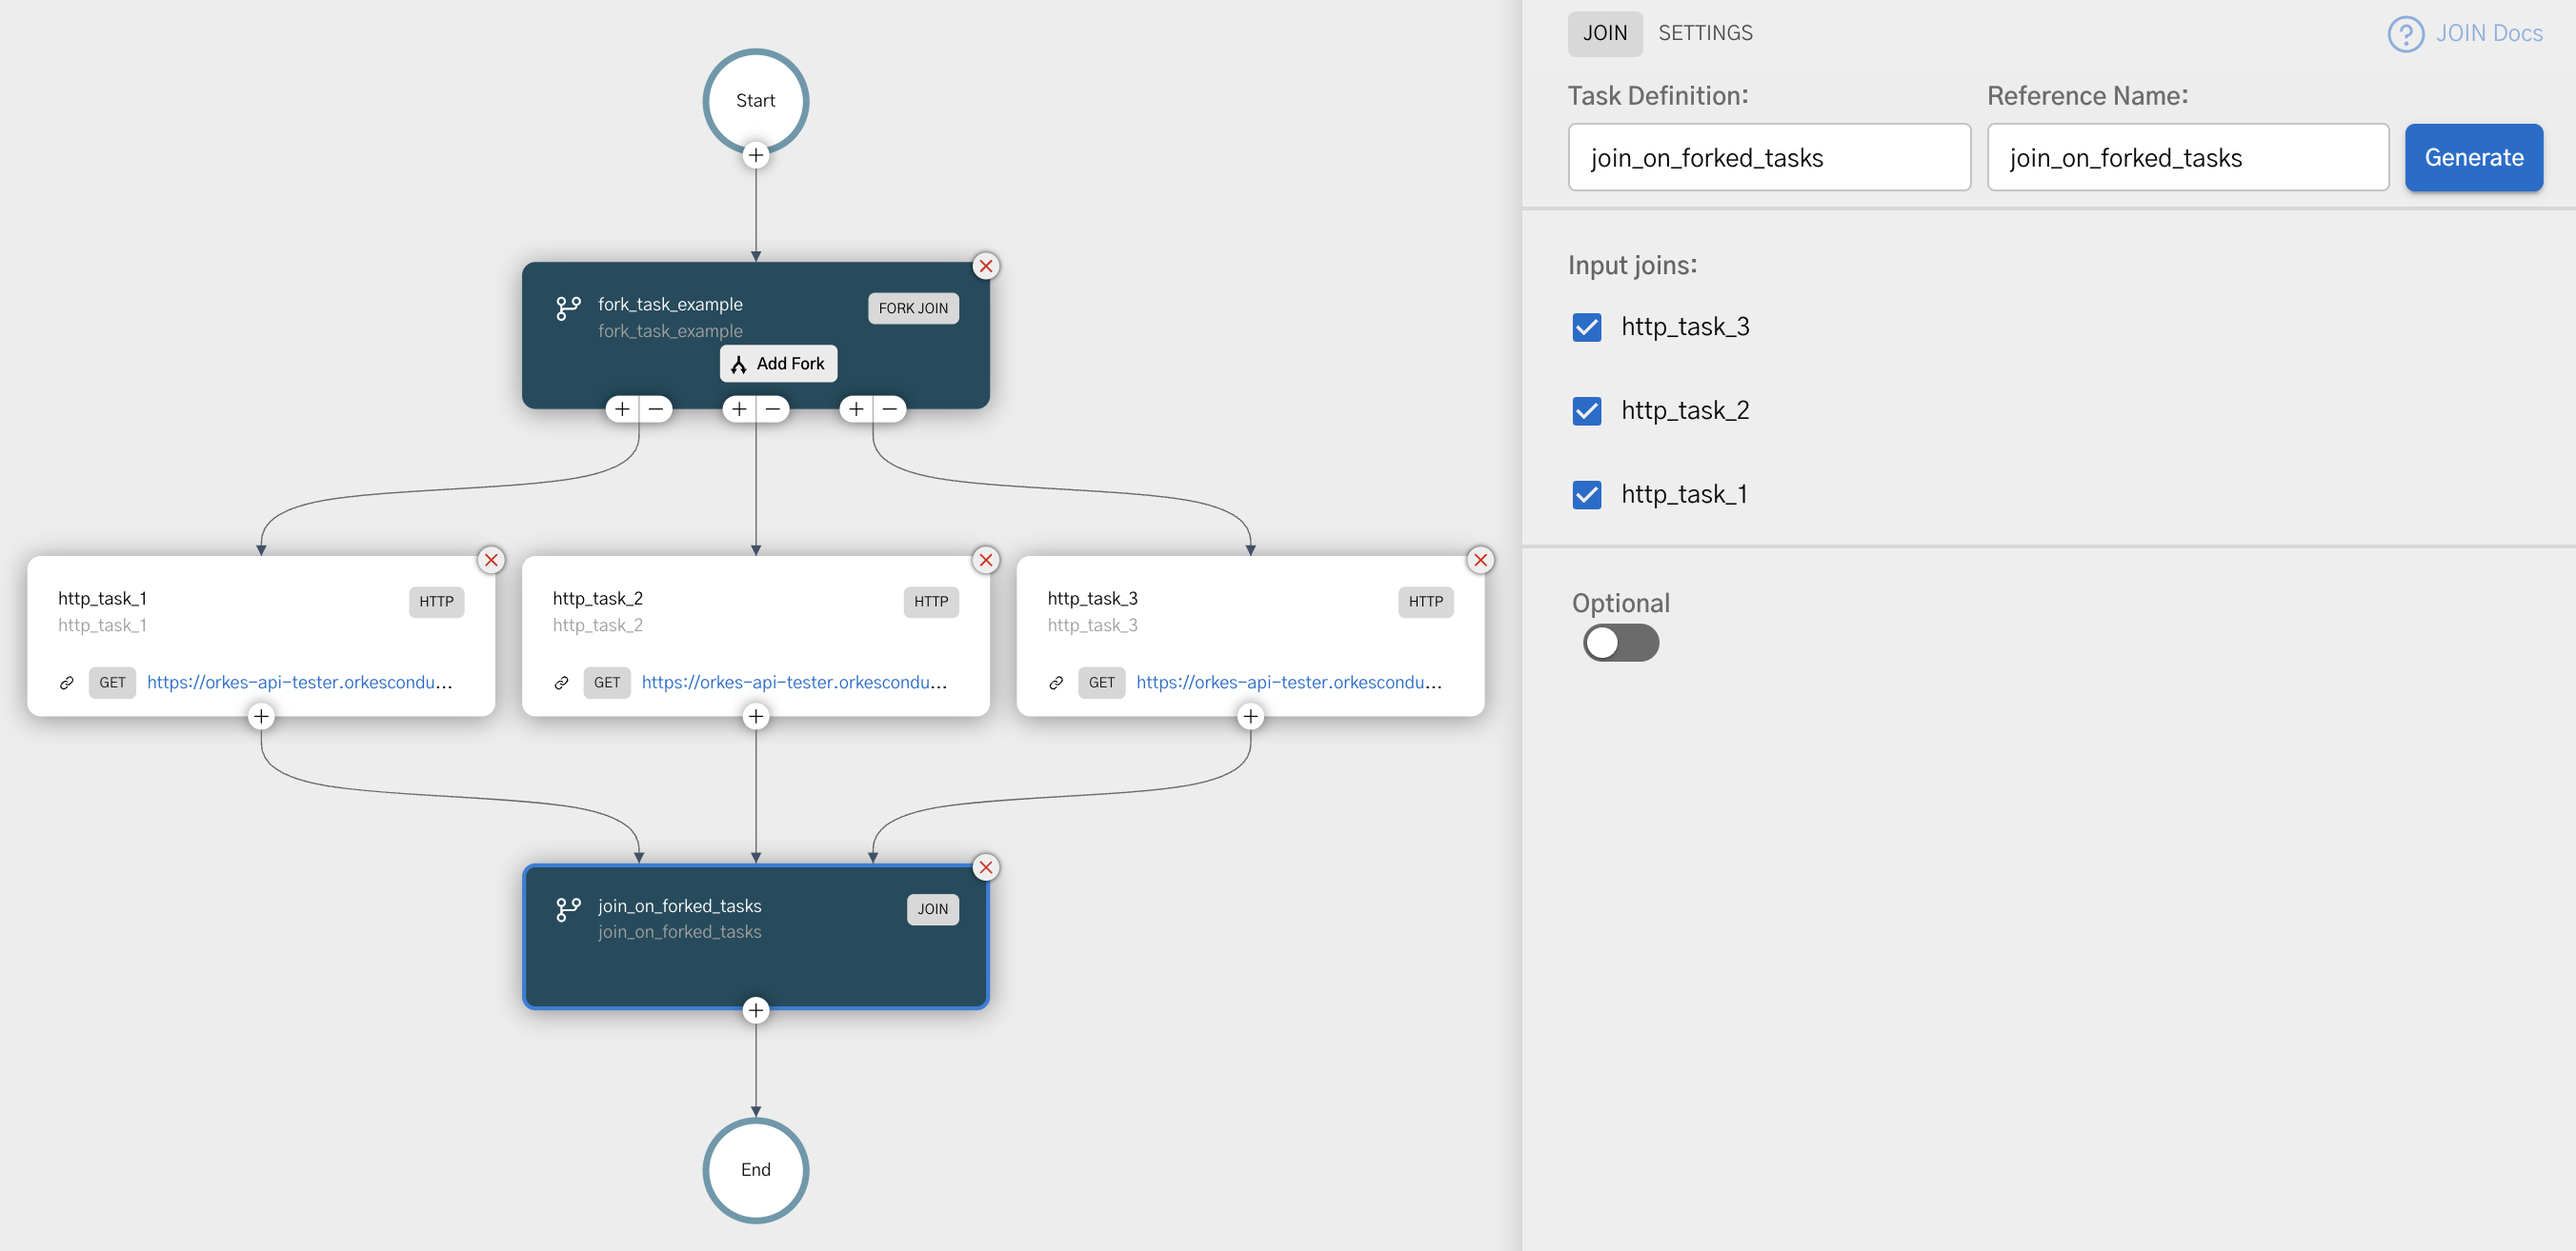
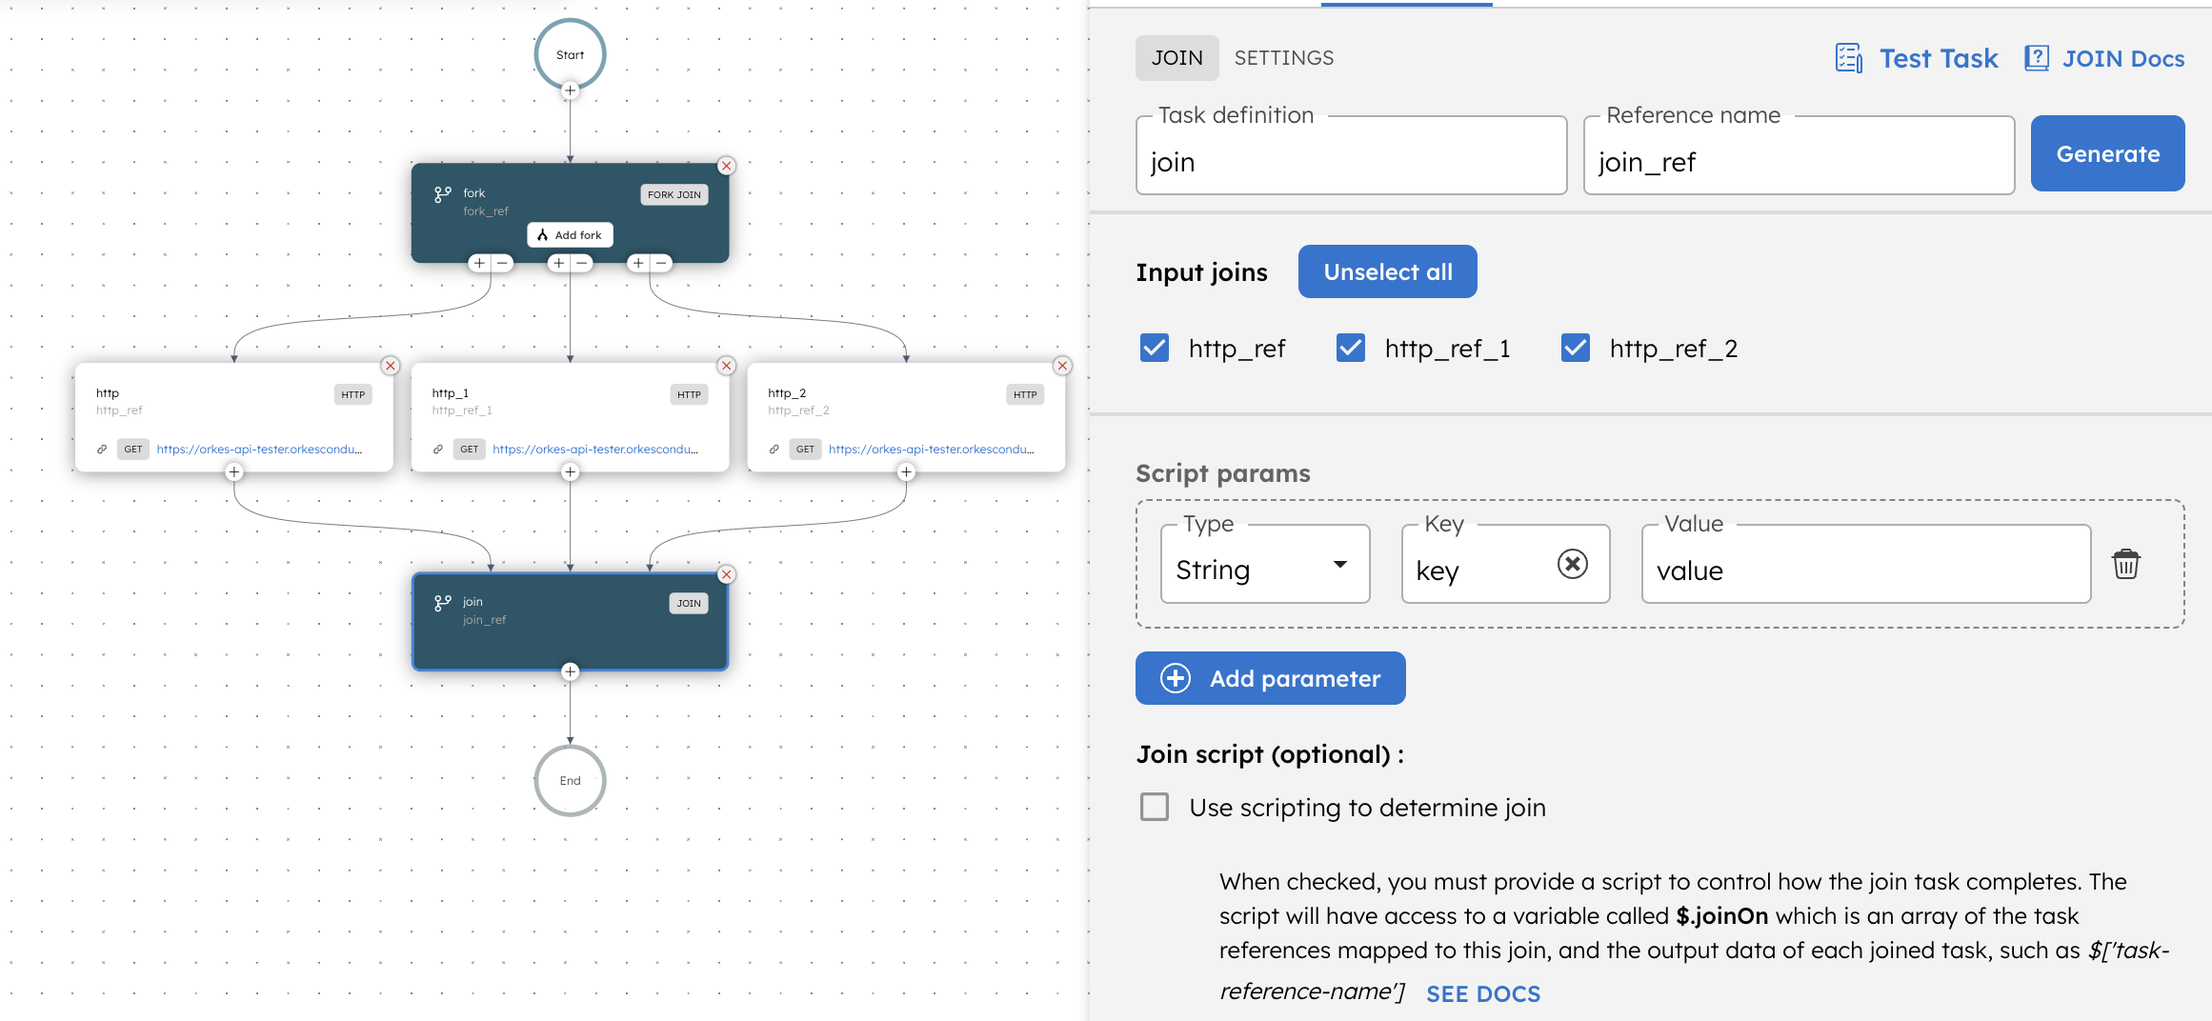
join task

diff --git a/docs/reference-docs/operators/join.md b/docs/reference-docs/operators/join.md
@@ -7,19 +7,22 @@ import TabItem from '@theme/TabItem';
 
 # Join 
 
-A JOIN task is used in conjunction with a **FORK_JOIN** or **FORK_JOIN_DYNAMIC** task to join all the tasks within the forks. 
+A Join task is used in conjunction with a [Fork Join](https://orkes.io/content/reference-docs/operators/fork-join) or [Dynamic Fork](https://orkes.io/content/reference-docs/operators/dynamic-fork) task to join all the tasks within the forks.
 
 ## Definitions
 
 ```json
-{
-  "name": "join_task",
-  "taskReferenceName": "join_task_ref",
-  "type": "JOIN",
-  "joinOn": [
-    // List of task reference names that this join should be waiting for
-  ]
-}
+   {
+     "name": "join",
+     "taskReferenceName": "join_ref",
+     "inputParameters": {
+       "key": "value"
+     },
+     "type": "JOIN",
+     "joinOn": [
+       // List of task reference names that this join should be waiting for
+     ]
+   }
 ```
 
 :::note
@@ -37,8 +40,16 @@ In the **FORK_JOIN** task, the JOIN task waits for a list of zero or more of the
 <td>A list of task reference names that this JOIN task will wait for completion.</td>
 </tr>
 <tr>
-<td>Join Script</td>
-<td> This is an optional field. When checked, you must provide a script to control how the join task completes. <p>A sample script looks like this:</p>
+<td>Join script</td>
+<td> This is an optional field. When checked, you must provide a script to control how the join task completes. You can also pass script parameters as input parameters to the join task.
+
+```json
+     "inputParameters": {
+       "key": "value"
+     }
+```
+
+<p>A sample script looks like this:</p>
 
 ```javascript
 (function(){
@@ -92,9 +103,10 @@ The output is a map, where the keys are the names of task references being joine
 <br/>
 <br/>
 
-1. Add task type `Fork Join`.
+1. Add task type **Fork Join**.
 2. Add the forks.
-3. Select the paired Join task and select joinOn params.
+3. Select the required forks to be joined.
+4. Optionally, enable the join scripting if required and provide the script.
 
 </div>
 <div className="col">
@@ -112,16 +124,19 @@ The output is a map, where the keys are the names of task references being joine
  <TabItem value="JSON" label="JSON Example">
 
 ```json
-    {
-      "name": "join_on_forked_tasks",
-      "taskReferenceName": "join_on_forked_tasks",
-      "type": "JOIN",
-      "joinOn": [
-        "http_task_3",
-        "http_task_2",
-        "http_task_1"
-      ]
-    }
+   {
+     "name": "join",
+     "taskReferenceName": "join_ref",
+     "inputParameters": {
+       "key": "value"
+     },
+     "type": "JOIN",
+     "joinOn": [
+       "http_ref",
+       "http_ref_1",
+       "http_ref_2"
+     ]
+   }
 ```
 
 </TabItem>
@@ -150,7 +165,7 @@ Here is an example of a JOIN task. This task will wait for the completion of tas
 <details><summary>Example with Fork/Join Task ignoring one fork</summary>
 <p>
 
-Here is an example of a JOIN task used in conjunction with a FORK_JOIN task. The 'FORK_JOIN' spawns three tasks. An **email_notification** task, a **sms_notification** task, and a **http_notification** task. Email and SMS are usually the best-effort delivery systems. However, in the case of an HTTP-based notification, you get a return code, and you can retry until it succeeds or eventually give up. When you set up a notification workflow, you may decide to continue if you kicked off an email and sms notification. In that case, you can decide to joinOn those specific tasks only. However, the **http_notification** task will still continue to execute, but it will not block the rest of the workflow from proceeding.
+Here is an example of a JOIN task used in conjunction with a FORK_JOIN task. The 'FORK_JOIN' spawns three tasks. An **email_notification** task, a **sms_notification** task, and a **http_notification** task. Email and SMS are usually the best-effort delivery systems. However, in the case of an HTTP-based notification, you get a return code, and you can retry until it succeeds or eventually give up. When you set up a notification workflow, you may decide to continue if you kick off an email and SMS notification. In that case, you can choose to joinOn those specific tasks only. However, the **http_notification** task will still continue to execute, but it will not block the rest of the workflow from proceeding.
 
 ```json
     [
@@ -220,7 +235,7 @@ Consider a fork-join task having 2 forks, of which both of them are sub-workflow
 
 In this case, both fork tasks should be marked as optional. 
 
-And the join task is joined using the following join script.
+The join task is joined using the following join script.
 
 ```javascript
 (function(){
@@ -247,7 +262,7 @@ And the join task is joined using the following join script.
  }
 })();
 ```
-This ensures the join task completes only if all the forks are completed. If any pending joins are found, the script will return the join task status to IN_PROGRESS and will get completed only on completing the fork tasks. 
+This ensures the join task is completed only if all the forks are completed. If any pending joins are found, the script will return the join task status to IN_PROGRESS and will complete it only after completing the fork tasks.
 
 If we run the workflow, you can see that the join has not been completed and is waiting for the second fork to complete. As per the script, this returns the join task to an in-progress state and remains until the pending joins are completed.
 
@@ -259,6 +274,6 @@ The join task gets completed after fixing the issue with the second fork task.
 <p align="center"><img src="/content/img/join-task-completed-state.png" alt="Join task completed" width="60%"
                        height="auto"/></p>
 
-So this ensures that the workflow gets completed only on completing all the pending joins as per the script.
+The join task is completed after the issue with the second fork task is fixed.
 
 </details>
